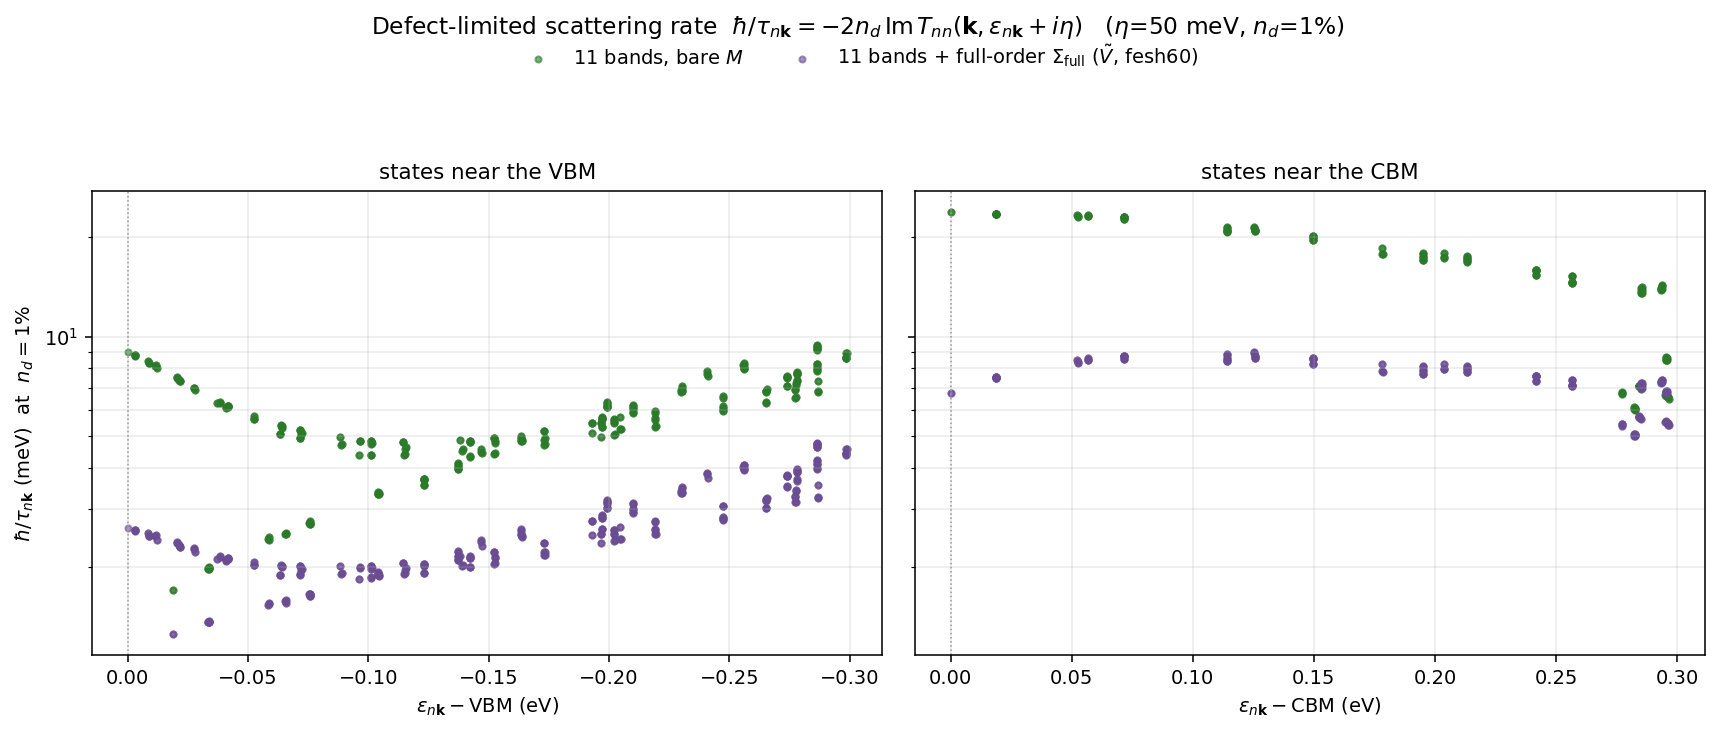
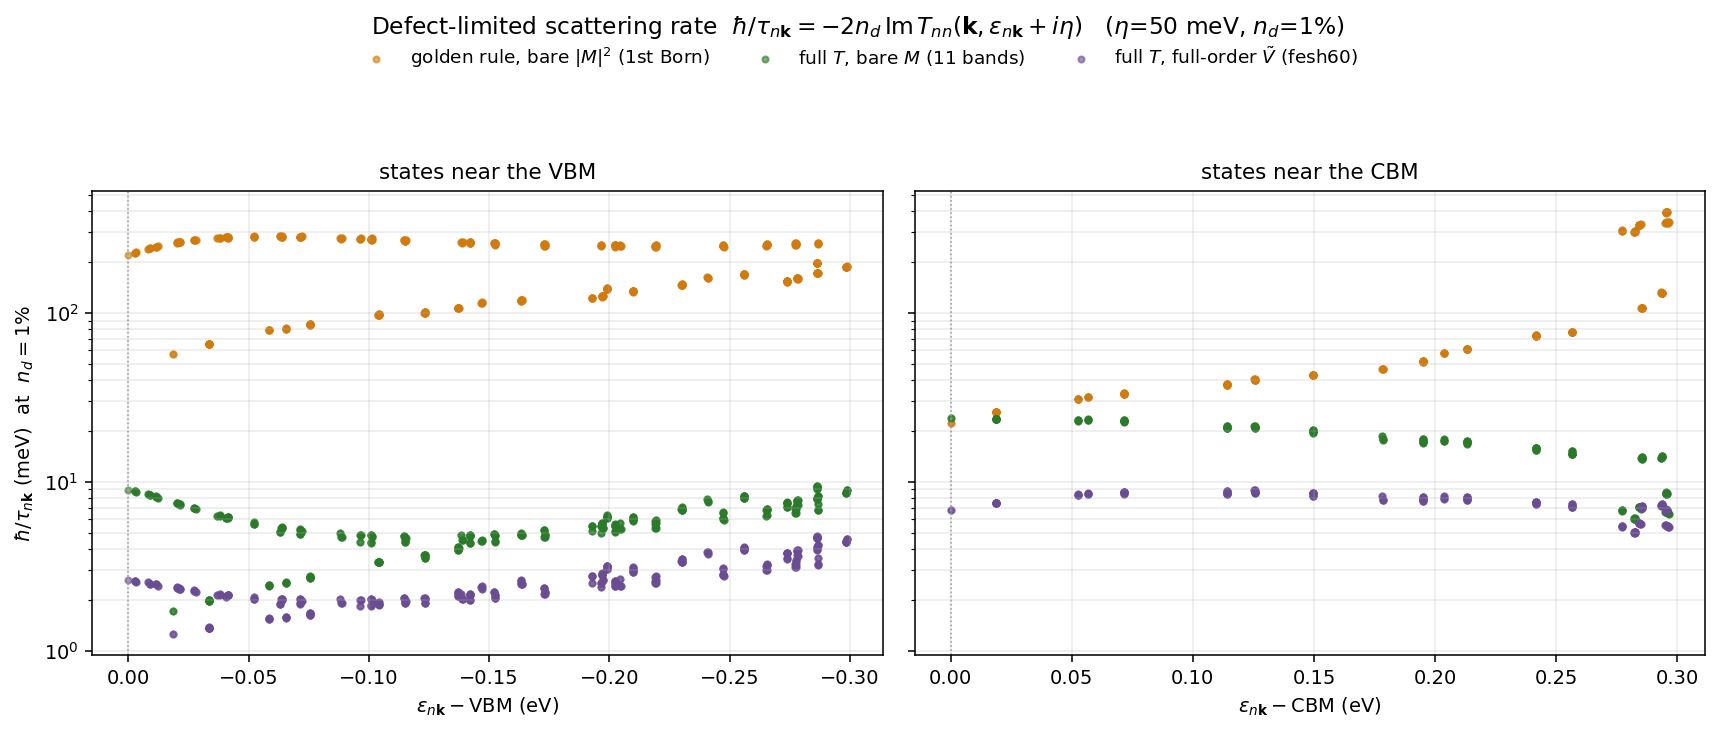
Results sec-5: add 1st-Born |M|^2 golden-rule rate as third scatter (Fig 23)
The bare-|M|^2 first-Born golden rule (what conventional first-principles
transport uses) overestimates near-edge scattering by 1-1.5 orders of
magnitude (tau ~3 fs at the VBM); the full T-matrix in the same potential
cuts it 29-45x (tau ~100 fs) -- the S-vacancy is a strong scatterer, the
Born series doesn't converge, resummation is essential. The full-order
rest dressing then lowers it a further 2-3x. Table -> three treatments,
figure -> three scatter sets, catalog row + observations rewritten to
lead with the resummation gap.

diff --git a/docs/pages/results.html b/docs/pages/results.html
@@ -150,13 +150,13 @@ B=U^\dagger W_{QP},$$
 <div class="math">
 $$\frac{\hbar}{\tau_{n\mathbf k}}\;=\;-2\,n_d\,\mathrm{Im}\,T_{nn}(\mathbf k,\mathbf k;\,\varepsilon_{n\mathbf k}+i\eta)$$
 </div>
-<p>is the defect-limited quasiparticle scattering rate to <strong>all orders</strong> in the defect potential (by the optical theorem it reduces to the golden rule $2\pi n_d\sum_{m\mathbf k'}|T_{n\mathbf k,m\mathbf k'}|^2 \delta(\varepsilon_{n\mathbf k}-\varepsilon_{m\mathbf k'})$). We evaluate it for every interpolated state within $0.3$ eV of a band edge ($677$ states on a $48\times48$ grid: valence top, band 6, and conduction bottom, band 7; interpolated edges VBM $-5.937$, CBM $-4.280$ eV), with exactly the machinery of the §4 spectral functions — the Wannier real-space sub-block ($R_{\rm cut}{=}4$) and the fine-grid host Green's function ($\eta{=}50$ meV) — and with <strong>both potential blocks read from the same fesh60 file</strong>: the bare-$M$ record (11-band active space, no rest) vs the full-order $\tilde V=M+N_k\Sigma_{\rm full}(\omega_0)$ record of §3. Rates are quoted at $n_d=1\%$ (one vacancy per 100 cells) and scale linearly with $n_d$:</p>
-<div class="table-wrap"><table><thead><tr><th>distance from edge</th><th>bare $M$ (11 bands): $\hbar/\tau$ ($\tau$)</th><th>full-order $\tilde V$: $\hbar/\tau$ ($\tau$)</th><th>ratio $\tilde V/M$</th></tr></thead><tbody><tr><td><strong>VBM</strong> $0$–$50$ meV</td><td>$6.2$ meV ($106$ fs)</td><td>$2.1$ meV ($310$ fs)</td><td>$0.34$</td></tr><tr><td>VBM $50$–$150$ meV</td><td>$4.2$ meV ($157$ fs)</td><td>$2.0$ meV ($337$ fs)</td><td>$0.46$</td></tr><tr><td>VBM $150$–$300$ meV</td><td>$6.6$ meV ($100$ fs)</td><td>$3.2$ meV ($205$ fs)</td><td>$0.49$</td></tr><tr><td><strong>CBM</strong> $0$–$50$ meV</td><td>$23.6$ meV ($28$ fs)</td><td>$7.4$ meV ($89$ fs)</td><td>$0.31$</td></tr><tr><td>CBM $50$–$150$ meV</td><td>$21.6$ meV ($30$ fs)</td><td>$8.6$ meV ($77$ fs)</td><td>$0.40$</td></tr><tr><td>CBM $150$–$300$ meV</td><td>$12.4$ meV ($53$ fs)</td><td>$6.8$ meV ($96$ fs)</td><td>$0.55$</td></tr></tbody></table></div>
-<p><img src="../assets/vtilde_scatrate.png" alt="On-shell defect scattering rates near the VBM and CBM: bare-M (green) vs full-order Vtilde (purple), log scale; the bare-M rates near the CBM are ~3x larger because the e resonance sits too close to the conduction edge." style="max-width:100%;height:auto;display:block;margin:1.2rem auto;border:1px solid #d0d7de;border-radius:6px"></p>
-<p><em>Figure 23. Defect-limited scattering rate $\hbar/\tau_{n\mathbf k}$ for every state within $0.3$ eV of the VBM (left) and CBM (right), at $n_d=1\%$ ($\eta=50$ meV, log scale). Green: 11-band active space with the bare $M$; purple: the same active space with the full-order rest dressing $\tilde V=M+N_k\Sigma_{\rm full}$ from the explicit-60 resolvent (§3).</em></p>
-<p>Three observations:</p>
-<ol><li><strong>The full-order dressing suppresses near-edge scattering by a factor $2$–$3$</strong> (lifetimes correspondingly longer). This is not a rigid shift — it is the genuine renormalization of the active-space effective potential by the rest manifold.</li><li><strong>The CBM side is where the resonance position matters most.</strong> With the bare $M$ the $e$ level sits at $-4.44$ eV — only $0.16$ eV below the interpolated CBM — so its resonance tail floods the conduction edge and the bare-$M$ rate <em>rises</em> toward the CBM, reaching $\sim24$ meV. The full-order $\tilde V$ puts the $e$ back at mid-gap ($-4.71$ eV, $0.43$ eV below the CBM); the tail recedes and the near-CBM rate flattens at $7$–$9$ meV. <strong>A bare truncated active space overestimates defect scattering of conduction-edge electrons by more than $3\times$</strong> — the transport-level counterpart of panels (2) vs (4) in Figure 15.</li><li>On the VBM side both treatments share the $a_1$ resonance pinned at the edge (both rates turn up as $\varepsilon\to$ VBM), but the full-order rates are uniformly $\sim2\times$ weaker: hole lifetimes at the edge correct from $\sim106$ fs (bare) to $\sim310$ fs.</li></ol>
-<p>The absolute values carry an $\mathcal O(\eta)$ broadening systematic, but the <em>ratio</em> between the two treatments — the beyond-Born content — is insensitive to $\eta$.</p>
+<p>is the defect-limited quasiparticle scattering rate. The on-shell diagonal of the <strong>full</strong> $T$ resums the defect potential to all orders; its lowest-order truncation $T\to M$ inside the same optical-theorem formula, $\hbar/\tau=-2n_d\,\mathrm{Im}[MgM]_{nn}$, is exactly the <strong>first-Born golden rule</strong> $2\pi n_d\sum_{m\mathbf k'}|M_{n\mathbf k,m\mathbf k'}|^2\delta(\varepsilon_{n\mathbf k}-\varepsilon_{m\mathbf k'})$ that conventional first-principles transport (EDI included) uses. We therefore plot <strong>three</strong> rates for every interpolated state within $0.3$ eV of a band edge ($677$ states on a $48\times48$ grid: valence top, band 6, and conduction bottom, band 7; interpolated edges VBM $-5.937$, CBM $-4.280$ eV), all with the §4 machinery (Wannier sub-block $R_{\rm cut}{=}4$, fine-grid host Green's function, $\eta{=}50$ meV): <strong>(i)</strong> the bare-$|M|^2$ golden rule (first Born); <strong>(ii)</strong> the full $T$ built from that same bare $M$ (11-band active space, no rest); <strong>(iii)</strong> the full $T$ from the full-order $\tilde V=M+N_k\Sigma_{\rm full}(\omega_0)$ of §3 — $M$ and $\tilde V$ read from the <strong>same</strong> fesh60 file. Rates are at $n_d=1\%$ (one vacancy per 100 cells) and scale linearly with $n_d$:</p>
+<div class="table-wrap"><table><thead><tr><th>distance from edge</th><th>golden rule, bare $\lvert M\rvert^2$ (1st Born)</th><th>full $T$, bare $M$</th><th>full $T$, full-order $\tilde V$</th></tr></thead><tbody><tr><td><strong>VBM</strong> $0$–$50$ meV</td><td>$219.7$ meV ($3.0$ fs)</td><td>$6.2$ meV ($106$ fs)</td><td>$2.1$ meV ($310$ fs)</td></tr><tr><td>VBM $50$–$150$ meV</td><td>$195.0$ meV ($3.4$ fs)</td><td>$4.2$ meV ($157$ fs)</td><td>$2.0$ meV ($337$ fs)</td></tr><tr><td>VBM $150$–$300$ meV</td><td>$194.6$ meV ($3.4$ fs)</td><td>$6.6$ meV ($100$ fs)</td><td>$3.2$ meV ($205$ fs)</td></tr><tr><td><strong>CBM</strong> $0$–$50$ meV</td><td>$25.3$ meV ($26$ fs)</td><td>$23.6$ meV ($28$ fs)</td><td>$7.4$ meV ($89$ fs)</td></tr><tr><td>CBM $50$–$150$ meV</td><td>$37.0$ meV ($18$ fs)</td><td>$21.6$ meV ($30$ fs)</td><td>$8.6$ meV ($77$ fs)</td></tr><tr><td>CBM $150$–$300$ meV</td><td>$180.8$ meV ($3.6$ fs)</td><td>$12.4$ meV ($53$ fs)</td><td>$6.8$ meV ($96$ fs)</td></tr></tbody></table></div>
+<p><img src="../assets/vtilde_scatrate.png" alt="On-shell defect scattering rates near the VBM and CBM for three treatments, log scale: the bare |M|^2 first-Born rate (orange) sits 1-1.5 orders of magnitude above the full T-matrix rate from the same potential (green), which the full-order rest dressing (purple) then lowers by a further factor of 2-3." style="max-width:100%;height:auto;display:block;margin:1.2rem auto;border:1px solid #d0d7de;border-radius:6px"></p>
+<p><em>Figure 23. Defect-limited scattering rate $\hbar/\tau_{n\mathbf k}$ for every state within $0.3$ eV of the VBM (left) and CBM (right), at $n_d=1\%$ ($\eta=50$ meV, log scale). Orange: the bare-$|M|^2$ golden rule (first Born). Green: the full $T$-matrix built from the same bare $M$ (11-band active space). Purple: the full $T$ from the full-order rest dressing $\tilde V=M+N_k\Sigma_{\rm full}$ of §3. The two beyond-Born steps — resummation, then dressing — are the two vertical gaps between the colours.</em></p>
+<p>The two beyond-Born corrections stack, and the first one is large:</p>
+<ol><li><strong>The first-Born golden rule overestimates near-edge scattering by $1$–$1.5$ orders of magnitude.</strong> At the VBM the bare-$|M|^2$ rate is $\sim200$ meV — a $\tau\approx3$ fs lifetime — which the full $T$-matrix <em>in the same potential</em> cuts to $\sim4$–$7$ meV ($\tau\sim100$ fs), a $29$–$45\times$ suppression. This is the whole point of going beyond Born: the S-vacancy is a <strong>strong</strong> scatterer ($\lVert\Delta V\,G^A\rVert\sim\mathcal O(1)$, §6), so the Born series does not converge and only the resummation gives physical lifetimes. (Near the CBM <em>edge</em> the available phase space is tiny and the two nearly coincide — $25$ vs $24$ meV — but a few hundred meV into the conduction band the gap reopens to $\sim15\times$.)</li><li><strong>On top of that, the full-order rest dressing suppresses the rate by a further $2$–$3\times$</strong> ($\tilde V/M\approx0.3$–$0.55$; hole lifetimes at the VBM correcting from $\sim106$ to $\sim310$ fs). This is the genuine renormalization of the active-space potential by the rest manifold — not a rigid shift.</li><li><strong>The CBM side is where the resonance position matters most.</strong> With the bare $M$ the $e$ level sits at $-4.44$ eV — only $0.16$ eV below the interpolated CBM — so its tail floods the conduction edge and the full-$T$ bare-$M$ rate <em>rises</em> toward the CBM. The full-order $\tilde V$ puts the $e$ back at mid-gap ($-4.71$ eV, $0.43$ eV below the CBM); the tail recedes and the near-CBM rate flattens at $7$–$9$ meV — the transport-level counterpart of panels (2) vs (4) in Figure 15.</li></ol>
+<p>The absolute values carry an $\mathcal O(\eta)$ broadening systematic, but the <em>ratios</em> between the treatments — the beyond-Born content — are insensitive to $\eta$.</p>
 </section>
 <section id="sec-6"><h2>6. On the magnitude of $\tilde V$</h2>
 <p>The Frobenius norm $\lVert\tilde V\rVert_F=100$ Ry can look alarming, but the <em>individual</em> matrix elements are small (RMS $\approx0.06$ Ry, on-site $\tilde V_{nn}\approx-0.12$ Ry): the norm is large only because it root-sum-squares $\sim2.5$ million matrix elements. The raw eigenvalues ($\tilde V\in[-80.6,+26.5]$ Ry, $M$ up to $211$ Ry) are the discrete-basis values; the physical scattering operator carries the BZ measure $1/N_k$ (it enters every $T$-matrix product through $G^A$), so the physical eigenvalues are $\sim\lambda/N_k\approx0.5$–$1.5$ Ry — bounded by $\max|\Delta V|\approx12$ Ry and giving a multiple-scattering parameter $\lVert\tilde V G^A\rVert\sim\mathcal O(1)$ (strong but sensible; the $T$-matrix resummation is essential, possibly resonant). See the <a href="note-kprime-normalization.html">$k'$-normalization note</a>.</p>

diff --git a/docs/index.html b/docs/index.html
@@ -21,7 +21,7 @@
 <tr><td><strong>Rest dressing ladder convergence</strong></td><td>Test</td><td>2026-06-11</td><td><span class="badge ok">Measured</span></td><td>Successive ratios MEASURED across rest sizes: $r_3{=}0.37$ ($Q$=18&ndash;28), $r_3{=}0.74,\ r_4{=}0.91,\ r_5{=}1.21$ ($Q$=18&ndash;70, crossing 1), $r_3{=}1.54$ (full rest, in-code) &mdash; the Born series for the rest dressing is <em>divergent</em>, and the partial sums oscillate ($e$: $+1.50\to+0.73\to+1.60$). Only the full resummation lands correctly.</td><td><a href="pages/sternheimer-ladder.html">See the ladder page &rarr;</a></td></tr>
 <tr><td><strong>Full-order rest dressing: direct resolvent from explicit-60</strong></td><td>Result</td><td>2026-06-11</td><td><span class="badge prod">Complete</span></td><td>The full-order static-$\omega_0$ Feshbach dressing of the 11-band active space, computed by DIRECT resolvent inversion on the explicit-60 data ($Q$=bands 18&ndash;70, one $H_{QQ}$ eigendecomposition &mdash; no Sternheimer iteration). <strong>Self-consistent full-order $e$ = $+1.205$ = the explicit-60 all-band value, to the displayed digits</strong> (DFT $+1.19$): the downfolding identity closes exactly, and the over-screening of the 2nd order ($+0.73$) is cured. Dressed $\tilde V$ written in the standard block format; full-order multiband spectral function on the results page (Fig 17 vs Fig 10).</td><td><a href="pages/results.html#sec-3">Open results &rarr;</a></td></tr>
 <tr><td><strong>Wannier representation &amp; Koster&ndash;Slater (P5-b)</strong></td><td>Result</td><td>2026-06-01</td><td><span class="badge ok">Resolved</span></td><td>Wannierizing $\tilde V$ needs $U(k)$ in the same Bloch gauge as the evc that build $M$. The original <code>filukk</code> (a separate 17-band run) mismatched the 150-band NSCF evc, so $M^W(R_e;q{\neq}0)$ came out flat. Fixed by re-Wannierizing on the 150-band NSCF (same Wannier space): $M^W$ now decays $\sim\!10^3\times$, $\tilde V^W$ is localized, and Koster&ndash;Slater converges by $R_{\rm cut}{=}4$. The neutral defect is short-ranged &mdash; no supercell / range-separation issue.</td><td><a href="pages/results.html#sec-3">Open results &rarr;</a></td></tr>
-<tr><td><strong>Near-edge scattering rates: bare $M$ vs full-order $\tilde V$</strong></td><td>Result</td><td>2026-06-12</td><td><span class="badge prod">Complete</span></td><td>On-shell optical-theorem rates $\hbar/\tau_{nk}=-2n_d\,\mathrm{Im}\,T_{nn}(k,\varepsilon_{nk}{+}i\eta)$ for all 677 states within 0.3 eV of the band edges (48&times;48 interpolation, $n_d{=}1\%$), both treatments from the same fesh60 block. <strong>The full-order rest dressing suppresses near-edge scattering $2$&ndash;$3\times$</strong>; at the CBM the bare $M$ overestimates by $&gt;3\times$ ($\hbar/\tau$ 24 vs 7 meV, $\tau$ 28 vs 89 fs) because its $e$ resonance sits only 0.16 eV below the conduction edge &mdash; the full-order $\tilde V$ moves it mid-gap and the rate flattens. The transport-level counterpart of Fig 15 panels (2) vs (4).</td><td><a href="pages/results.html#sec-5">Open results &rarr;</a></td></tr>
+<tr><td><strong>Near-edge scattering rates: 1st-Born $\lvert M\rvert^2$ vs full $T$ vs full-order $\tilde V$</strong></td><td>Result</td><td>2026-06-12</td><td><span class="badge prod">Complete</span></td><td>On-shell optical-theorem rates $\hbar/\tau_{nk}$ for all 677 states within 0.3 eV of the band edges (48&times;48 interpolation, $n_d{=}1\%$), three treatments. <strong>The first-Born $\lvert M\rvert^2$ golden rule overestimates near-edge scattering by 1&ndash;1.5 orders of magnitude</strong> ($\tau$ $\approx$ 3 fs at the VBM); the full $T$-matrix in the same potential cuts it 29&ndash;45&times; ($\tau\sim$100 fs) &mdash; the S-vacancy is a strong scatterer, so the Born series doesn't converge and resummation is essential. The full-order rest dressing then lowers it a further 2&ndash;3&times;. At the CBM the bare-$M$ $e$ resonance (0.16 eV below the edge) floods the rate; $\tilde V$ moves it mid-gap and flattens it &mdash; the transport-level counterpart of Fig 15 panels (2) vs (4).</td><td><a href="pages/results.html#sec-5">Open results &rarr;</a></td></tr>
 <tr class="planned"><td><strong>Active-space dynamic resummation / transport</strong></td><td>Test</td><td>&mdash;</td><td><span class="badge plan">Planned</span></td><td>Next (P6): the remaining mobility integral &mdash; velocity factors + BZ sum over the on-shell rates of &sect;5 (beyond-Born vs Born mobility), and the frequency-dependent $\Sigma_{\rm rest}(\omega)$.</td><td>&mdash;</td></tr>
 </tbody></table></div><p class="small">Legend: <span class="badge ok">Complete</span> done &nbsp; <span class="badge plan">Planned</span> not yet run &nbsp; <span class="badge prod">Production</span> headline result.</p></section><section id="summary"><h2>Executive Summary</h2><div class="grid cards"><div class="card"><strong>Goal</strong><span>Electron&ndash;defect $T$-matrix beyond the first Born approximation, as a beyond-Born extension of the EDI workflow.</span></div><div class="card"><strong>Layer 1 &mdash; rest</strong><span>Distant bands renormalize the bare defect potential $V$ into an effective $\tilde V(\omega_0)$ via a $k$-decoupled Sternheimer solve (Feshbach downfolding; exact to 2nd order in the active&ndash;rest coupling, iterable to all orders in $V_{QQ}$).</span></div><div class="card"><strong>Layer 2 &mdash; active</strong><span>Full dynamical multiple scattering resummed by one small inversion $T_{PP}(\omega)=[1-\tilde V\,G^A(\omega)]^{-1}\tilde V$.</span></div><div class="card"><strong>Status</strong><span>Theory + plan complete; EDT implemented. First results: $\tilde V$ block (P3) + active $T_{PP}$ (P5) on MoS&#8322;. Transport (P6) next. No raw data published.</span></div></div><p>The construction splits the host Green&rsquo;s function into an <strong>active</strong> block $A$ (bands near $E_F$, kept dynamical) and a <strong>rest</strong> block $R$ (distant bands, treated statically) &mdash; the constrained-RPA (cRPA) logic transported from screened interactions to multiple scattering. Neither layer ever forms or inverts a dense $(N_kN_b)\times(N_kN_b)$ matrix.</p></section><section id="glance"><h2>Method at a Glance</h2><p>The two layers are cleanly separable and individually controlled:</p><div class="math">
 $$

diff --git a/tools/p7_scatrate.py b/tools/p7_scatrate.py
@@ -46,9 +46,10 @@ dRs=sorted({(Rg[sel[a],0]-Rg[sel[b],0],Rg[sel[a],1]-Rg[sel[b],1]) for a in range
 dRidx={dR:i for i,dR in enumerate(dRs)}
 phdR=np.array([np.exp(2j*np.pi*(kfg[:,0]*dm+kfg[:,1]*dn)) for (dm,dn) in dRs])
 dRmat=np.array([[dRidx[(Rg[sel[a],0]-Rg[sel[b],0],Rg[sel[a],1]-Rg[sel[b],1])] for b in range(ns)] for a in range(ns)])
-def Tsub_of(omega,Xsub):
+def Tsub_of(omega,Xsub,born=False):
     D=1.0/((omega+1j*ETA)-efine); G=np.einsum("kpn,kn,kqn->kpq",Wfine,D,Wfine.conj())
     gt=(np.einsum("dk,kpq->dpq",phdR,G)/NF**2)[dRmat].transpose(0,2,1,3).reshape(dim,dim)
+    if born: return Xsub+Xsub@gt@Xsub                 # 1st Born: golden rule |X|^2 via optical theorem
     return np.linalg.solve(np.eye(dim)-Xsub@gt,Xsub)
 
 e_eV=efine*RY                                       # [NF^2, nb] fine-grid band energies (eV)
@@ -69,15 +70,15 @@ Wsel=Wfine[ksel]                                                     # [Nsel, nb
 NWG=40
 omV=np.linspace(VBMe-WIN-0.02,VBMe+0.02,NWG); omC=np.linspace(CBMe-0.02,CBMe+WIN+0.02,NWG)
 omall=np.concatenate([omV,omC])
-def diagT(Xsub,tag):
+def diagT(Xsub,tag,born=False):
     out=np.empty((len(omall),len(ksel),nb))          # Im T_nn(k;omega)  (Ry)
     for j,om in enumerate(omall):
-        Ts=Tsub_of(om/RY,Xsub).reshape(ns,nb,ns,nb)
+        Ts=Tsub_of(om/RY,Xsub,born).reshape(ns,nb,ns,nb)
         TW=np.einsum("ka,apbq,kb->kpq",phb,Ts,phk,optimize=True)
         out[j]=np.imag(np.einsum("kpn,kpq,kqn->kn",Wsel.conj(),TW,Wsel,optimize=True))
         if j%10==0: print(f"  {tag} {j}/{len(omall)}",flush=True)
     return out
-ImM=diagT(Msub,"M  (bare)"); ImV=diagT(Vsub,"V~ (full)")
+ImM=diagT(Msub,"M  (bare)"); ImV=diagT(Vsub,"V~ (full)"); ImB=diagT(Msub,"|M|^2 Born",born=True)
 
 def rates(Im):                                       # hbar/tau in meV at n_d=ND
     r=np.empty(len(states))
@@ -85,26 +86,28 @@ def rates(Im):                                       # hbar/tau in meV at n_d=ND
         og=omV if side=="V" else omC; sl=slice(0,NWG) if side=="V" else slice(NWG,2*NWG)
         r[i]=-2.0*ND*np.interp(e,og,Im[sl,kpos[ik],n])*RY*1e3
     return r
-rM=rates(ImM); rV=rates(ImV)
+rM=rates(ImM); rV=rates(ImV); rB=rates(ImB)
 eps=np.array([s[2] for s in states]); side=np.array([s[3] for s in states])
-np.savez("p7_scatrate.npz",eps=eps,side=side,rM=rM,rV=rV,VBM=VBMe,CBM=CBMe,nd=ND,eta=ETA*RY,
+np.savez("p7_scatrate.npz",eps=eps,side=side,rM=rM,rV=rV,rB=rB,VBM=VBMe,CBM=CBMe,nd=ND,eta=ETA*RY,
          band=np.array([s[1] for s in states]),ik=np.array([s[0] for s in states]))
 
-fig,axs=plt.subplots(1,2,figsize=(12.4,4.9),sharey=True)
+fig,axs=plt.subplots(1,2,figsize=(12.4,5.2),sharey=True)
 for ax,sd,edge,lbl in [(axs[0],"V",VBMe,"VBM"),(axs[1],"C",CBMe,"CBM")]:
     m=side==sd; x=eps[m]-edge
-    ax.scatter(x,rM[m],s=9,c="#2a7a2a",alpha=.55,label="11 bands, bare $M$")
-    ax.scatter(x,rV[m],s=9,c="#6a4c93",alpha=.55,label=r"11 bands + full-order $\Sigma_{\rm full}$ ($\tilde V$, fesh60)")
+    ax.scatter(x,rB[m],s=10,c="#d17b0f",alpha=.6,label=r"golden rule, bare $|M|^2$ (1st Born)")
+    ax.scatter(x,rM[m],s=10,c="#2a7a2a",alpha=.6,label="full $T$, bare $M$ (11 bands)")
+    ax.scatter(x,rV[m],s=10,c="#6a4c93",alpha=.6,label=r"full $T$, full-order $\tilde V$ (fesh60)")
     ax.set_yscale("log"); ax.axvline(0,color="#999",lw=.8,ls=":")
     ax.set_xlabel(rf"$\varepsilon_{{n\mathbf{{k}}}}-${lbl} (eV)")
     ax.set_title(f"states near the {lbl}",fontsize=11)
     ax.grid(alpha=.25,which="both")
 axs[0].set_ylabel(r"$\hbar/\tau_{n\mathbf{k}}$ (meV)  at  $n_d=1\%$")
 axs[0].invert_xaxis()
-h,l=axs[0].get_legend_handles_labels(); fig.legend(h,l,ncol=2,loc="upper center",fontsize=10,frameon=False)
+h,l=axs[0].get_legend_handles_labels()
+fig.legend(h,l,ncol=3,loc="lower center",bbox_to_anchor=(0.5,0.90),fontsize=9.5,frameon=False)
 fig.suptitle(r"Defect-limited scattering rate  $\hbar/\tau_{n\mathbf{k}}=-2 n_d\,\mathrm{Im}\,T_{nn}(\mathbf{k},\varepsilon_{n\mathbf{k}}+i\eta)$"
-             rf"   ($\eta$={ETA*RY*1e3:.0f} meV, $n_d$=1%)",y=1.06)
-plt.tight_layout(); plt.savefig("p7_scatrate.png",dpi=140,bbox_inches="tight")
+             rf"   ($\eta$={ETA*RY*1e3:.0f} meV, $n_d$=1%)",y=1.00)
+plt.tight_layout(rect=[0,0,1,0.89]); plt.savefig("p7_scatrate.png",dpi=140,bbox_inches="tight")
 print("wrote p7_scatrate.png",flush=True)
 
 for sd,edge,lbl in [("V",VBMe,"VBM"),("C",CBMe,"CBM")]:
@@ -112,7 +115,8 @@ for sd,edge,lbl in [("V",VBMe,"VBM"),("C",CBMe,"CBM")]:
     for d0,d1 in [(0.0,0.05),(0.05,0.15),(0.15,0.30)]:
         m=(side==sd)&(np.abs(eps-edge)>=d0)&(np.abs(eps-edge)<d1)
         if m.sum()==0: continue
-        a,b=rM[m].mean(),rV[m].mean()
+        a,b,c=rM[m].mean(),rV[m].mean(),rB[m].mean()
         print(f"  |e-edge| in [{d0:.2f},{d1:.2f}) eV  ({m.sum():4d} states): "
-              f"bare M {a:8.3f} meV (tau {HBAR/a:8.1f} fs) | full V~ {b:8.3f} meV "
-              f"(tau {HBAR/b:8.1f} fs) | ratio V~/M {b/a:6.3f}")
+              f"Born |M|^2 {c:8.3f} meV (tau {HBAR/c:8.1f} fs) | full-T M {a:8.3f} meV "
+              f"(tau {HBAR/a:8.1f} fs) | full-T V~ {b:8.3f} meV (tau {HBAR/b:8.1f} fs) "
+              f"| V~/M {b/a:6.3f} | M/Born {a/c:6.3f}")

diff --git a/tools/build_site.py b/tools/build_site.py
@@ -540,14 +540,15 @@ CATALOG = [
      "$\\sim\\!10^3\\times$, $\\tilde V^W$ is localized, and Koster&ndash;Slater converges by $R_{\\rm cut}{=}4$. "
      "The neutral defect is short-ranged &mdash; no supercell / range-separation issue.",
      '<a href="pages/results.html#sec-3">Open results &rarr;</a>'),
-    ("Near-edge scattering rates: bare $M$ vs full-order $\\tilde V$", "Result", "2026-06-12", "prod", "Complete",
-     "On-shell optical-theorem rates $\\hbar/\\tau_{nk}=-2n_d\\,\\mathrm{Im}\\,T_{nn}(k,\\varepsilon_{nk}{+}i\\eta)$ "
-     "for all 677 states within 0.3 eV of the band edges (48&times;48 interpolation, $n_d{=}1\\%$), both "
-     "treatments from the same fesh60 block. <strong>The full-order rest dressing suppresses near-edge "
-     "scattering $2$&ndash;$3\\times$</strong>; at the CBM the bare $M$ overestimates by $&gt;3\\times$ "
-     "($\\hbar/\\tau$ 24 vs 7 meV, $\\tau$ 28 vs 89 fs) because its $e$ resonance sits only 0.16 eV below the "
-     "conduction edge &mdash; the full-order $\\tilde V$ moves it mid-gap and the rate flattens. The "
-     "transport-level counterpart of Fig 15 panels (2) vs (4).",
+    ("Near-edge scattering rates: 1st-Born $\\lvert M\\rvert^2$ vs full $T$ vs full-order $\\tilde V$", "Result", "2026-06-12", "prod", "Complete",
+     "On-shell optical-theorem rates $\\hbar/\\tau_{nk}$ for all 677 states within 0.3 eV of the band edges "
+     "(48&times;48 interpolation, $n_d{=}1\\%$), three treatments. <strong>The first-Born $\\lvert M\\rvert^2$ "
+     "golden rule overestimates near-edge scattering by 1&ndash;1.5 orders of magnitude</strong> ($\\tau$ "
+     "$\\approx$ 3 fs at the VBM); the full $T$-matrix in the same potential cuts it 29&ndash;45&times; "
+     "($\\tau\\sim$100 fs) &mdash; the S-vacancy is a strong scatterer, so the Born series doesn't converge "
+     "and resummation is essential. The full-order rest dressing then lowers it a further 2&ndash;3&times;. "
+     "At the CBM the bare-$M$ $e$ resonance (0.16 eV below the edge) floods the rate; $\\tilde V$ moves it "
+     "mid-gap and flattens it &mdash; the transport-level counterpart of Fig 15 panels (2) vs (4).",
      '<a href="pages/results.html#sec-5">Open results &rarr;</a>'),
     ("Active-space dynamic resummation / transport", "Test", "&mdash;", "plan", "Planned",
      "Next (P6): the remaining mobility integral &mdash; velocity factors + BZ sum over the on-shell rates "

diff --git a/content/note_tmatrix_results.md b/content/note_tmatrix_results.md
@@ -522,51 +522,58 @@ What does the full-order rest dressing do to *transport*? The on-shell optical-t
 
 $$\frac{\hbar}{\tau_{n\mathbf k}}\;=\;-2\,n_d\,\mathrm{Im}\,T_{nn}(\mathbf k,\mathbf k;\,\varepsilon_{n\mathbf k}+i\eta)$$
 
-is the defect-limited quasiparticle scattering rate to **all orders** in the defect potential (by the
-optical theorem it reduces to the golden rule $2\pi n_d\sum_{m\mathbf k'}|T_{n\mathbf k,m\mathbf k'}|^2
-\delta(\varepsilon_{n\mathbf k}-\varepsilon_{m\mathbf k'})$). We evaluate it for every interpolated
-state within $0.3$ eV of a band edge ($677$ states on a $48\times48$ grid: valence top, band 6, and
-conduction bottom, band 7; interpolated edges VBM $-5.937$, CBM $-4.280$ eV), with exactly the
-machinery of the §4 spectral functions — the Wannier real-space sub-block ($R_{\rm cut}{=}4$) and the
-fine-grid host Green's function ($\eta{=}50$ meV) — and with **both potential blocks read from the same
-fesh60 file**: the bare-$M$ record (11-band active space, no rest) vs the full-order
-$\tilde V=M+N_k\Sigma_{\rm full}(\omega_0)$ record of §3. Rates are quoted at $n_d=1\%$ (one vacancy
-per 100 cells) and scale linearly with $n_d$:
+is the defect-limited quasiparticle scattering rate. The on-shell diagonal of the **full** $T$ resums
+the defect potential to all orders; its lowest-order truncation $T\to M$ inside the same optical-theorem
+formula, $\hbar/\tau=-2n_d\,\mathrm{Im}[MgM]_{nn}$, is exactly the **first-Born golden rule**
+$2\pi n_d\sum_{m\mathbf k'}|M_{n\mathbf k,m\mathbf k'}|^2\delta(\varepsilon_{n\mathbf k}-\varepsilon_{m\mathbf k'})$
+that conventional first-principles transport (EDI included) uses. We therefore plot **three** rates for
+every interpolated state within $0.3$ eV of a band edge ($677$ states on a $48\times48$ grid: valence
+top, band 6, and conduction bottom, band 7; interpolated edges VBM $-5.937$, CBM $-4.280$ eV), all with
+the §4 machinery (Wannier sub-block $R_{\rm cut}{=}4$, fine-grid host Green's function, $\eta{=}50$ meV):
+**(i)** the bare-$|M|^2$ golden rule (first Born); **(ii)** the full $T$ built from that same bare $M$
+(11-band active space, no rest); **(iii)** the full $T$ from the full-order
+$\tilde V=M+N_k\Sigma_{\rm full}(\omega_0)$ of §3 — $M$ and $\tilde V$ read from the **same** fesh60 file.
+Rates are at $n_d=1\%$ (one vacancy per 100 cells) and scale linearly with $n_d$:
 
-| distance from edge | bare $M$ (11 bands): $\hbar/\tau$ ($\tau$) | full-order $\tilde V$: $\hbar/\tau$ ($\tau$) | ratio $\tilde V/M$ |
+| distance from edge | golden rule, bare $\lvert M\rvert^2$ (1st Born) | full $T$, bare $M$ | full $T$, full-order $\tilde V$ |
 |---|---|---|---|
-| **VBM** $0$–$50$ meV | $6.2$ meV ($106$ fs) | $2.1$ meV ($310$ fs) | $0.34$ |
-| VBM $50$–$150$ meV | $4.2$ meV ($157$ fs) | $2.0$ meV ($337$ fs) | $0.46$ |
-| VBM $150$–$300$ meV | $6.6$ meV ($100$ fs) | $3.2$ meV ($205$ fs) | $0.49$ |
-| **CBM** $0$–$50$ meV | $23.6$ meV ($28$ fs) | $7.4$ meV ($89$ fs) | $0.31$ |
-| CBM $50$–$150$ meV | $21.6$ meV ($30$ fs) | $8.6$ meV ($77$ fs) | $0.40$ |
-| CBM $150$–$300$ meV | $12.4$ meV ($53$ fs) | $6.8$ meV ($96$ fs) | $0.55$ |
+| **VBM** $0$–$50$ meV | $219.7$ meV ($3.0$ fs) | $6.2$ meV ($106$ fs) | $2.1$ meV ($310$ fs) |
+| VBM $50$–$150$ meV | $195.0$ meV ($3.4$ fs) | $4.2$ meV ($157$ fs) | $2.0$ meV ($337$ fs) |
+| VBM $150$–$300$ meV | $194.6$ meV ($3.4$ fs) | $6.6$ meV ($100$ fs) | $3.2$ meV ($205$ fs) |
+| **CBM** $0$–$50$ meV | $25.3$ meV ($26$ fs) | $23.6$ meV ($28$ fs) | $7.4$ meV ($89$ fs) |
+| CBM $50$–$150$ meV | $37.0$ meV ($18$ fs) | $21.6$ meV ($30$ fs) | $8.6$ meV ($77$ fs) |
+| CBM $150$–$300$ meV | $180.8$ meV ($3.6$ fs) | $12.4$ meV ($53$ fs) | $6.8$ meV ($96$ fs) |
 
-![On-shell defect scattering rates near the VBM and CBM: bare-M (green) vs full-order Vtilde (purple), log scale; the bare-M rates near the CBM are ~3x larger because the e resonance sits too close to the conduction edge.](../assets/vtilde_scatrate.png)
+![On-shell defect scattering rates near the VBM and CBM for three treatments, log scale: the bare |M|^2 first-Born rate (orange) sits 1-1.5 orders of magnitude above the full T-matrix rate from the same potential (green), which the full-order rest dressing (purple) then lowers by a further factor of 2-3.](../assets/vtilde_scatrate.png)
 
 *Figure 23. Defect-limited scattering rate $\hbar/\tau_{n\mathbf k}$ for every state within $0.3$ eV
-of the VBM (left) and CBM (right), at $n_d=1\%$ ($\eta=50$ meV, log scale). Green: 11-band active
-space with the bare $M$; purple: the same active space with the full-order rest dressing
-$\tilde V=M+N_k\Sigma_{\rm full}$ from the explicit-60 resolvent (§3).*
+of the VBM (left) and CBM (right), at $n_d=1\%$ ($\eta=50$ meV, log scale). Orange: the bare-$|M|^2$
+golden rule (first Born). Green: the full $T$-matrix built from the same bare $M$ (11-band active
+space). Purple: the full $T$ from the full-order rest dressing $\tilde V=M+N_k\Sigma_{\rm full}$ of §3.
+The two beyond-Born steps — resummation, then dressing — are the two vertical gaps between the colours.*
 
-Three observations:
+The two beyond-Born corrections stack, and the first one is large:
 
-1. **The full-order dressing suppresses near-edge scattering by a factor $2$–$3$** (lifetimes
-   correspondingly longer). This is not a rigid shift — it is the genuine renormalization of the
-   active-space effective potential by the rest manifold.
-2. **The CBM side is where the resonance position matters most.** With the bare $M$ the $e$ level
-   sits at $-4.44$ eV — only $0.16$ eV below the interpolated CBM — so its resonance tail floods the
-   conduction edge and the bare-$M$ rate *rises* toward the CBM, reaching $\sim24$ meV. The
-   full-order $\tilde V$ puts the $e$ back at mid-gap ($-4.71$ eV, $0.43$ eV below the CBM); the
-   tail recedes and the near-CBM rate flattens at $7$–$9$ meV. **A bare truncated active space
-   overestimates defect scattering of conduction-edge electrons by more than $3\times$** — the
-   transport-level counterpart of panels (2) vs (4) in Figure 15.
-3. On the VBM side both treatments share the $a_1$ resonance pinned at the edge (both rates turn up
-   as $\varepsilon\to$ VBM), but the full-order rates are uniformly $\sim2\times$ weaker: hole
-   lifetimes at the edge correct from $\sim106$ fs (bare) to $\sim310$ fs.
+1. **The first-Born golden rule overestimates near-edge scattering by $1$–$1.5$ orders of magnitude.**
+   At the VBM the bare-$|M|^2$ rate is $\sim200$ meV — a $\tau\approx3$ fs lifetime — which the full
+   $T$-matrix *in the same potential* cuts to $\sim4$–$7$ meV ($\tau\sim100$ fs), a $29$–$45\times$
+   suppression. This is the whole point of going beyond Born: the S-vacancy is a **strong** scatterer
+   ($\lVert\Delta V\,G^A\rVert\sim\mathcal O(1)$, §6), so the Born series does not converge and only the
+   resummation gives physical lifetimes. (Near the CBM *edge* the available phase space is tiny and the
+   two nearly coincide — $25$ vs $24$ meV — but a few hundred meV into the conduction band the gap
+   reopens to $\sim15\times$.)
+2. **On top of that, the full-order rest dressing suppresses the rate by a further $2$–$3\times$**
+   ($\tilde V/M\approx0.3$–$0.55$; hole lifetimes at the VBM correcting from $\sim106$ to $\sim310$ fs).
+   This is the genuine renormalization of the active-space potential by the rest manifold — not a rigid
+   shift.
+3. **The CBM side is where the resonance position matters most.** With the bare $M$ the $e$ level sits
+   at $-4.44$ eV — only $0.16$ eV below the interpolated CBM — so its tail floods the conduction edge
+   and the full-$T$ bare-$M$ rate *rises* toward the CBM. The full-order $\tilde V$ puts the $e$ back at
+   mid-gap ($-4.71$ eV, $0.43$ eV below the CBM); the tail recedes and the near-CBM rate flattens at
+   $7$–$9$ meV — the transport-level counterpart of panels (2) vs (4) in Figure 15.
 
-The absolute values carry an $\mathcal O(\eta)$ broadening systematic, but the *ratio* between the
-two treatments — the beyond-Born content — is insensitive to $\eta$.
+The absolute values carry an $\mathcal O(\eta)$ broadening systematic, but the *ratios* between the
+treatments — the beyond-Born content — are insensitive to $\eta$.
 
 ## 6. On the magnitude of $\tilde V$
 